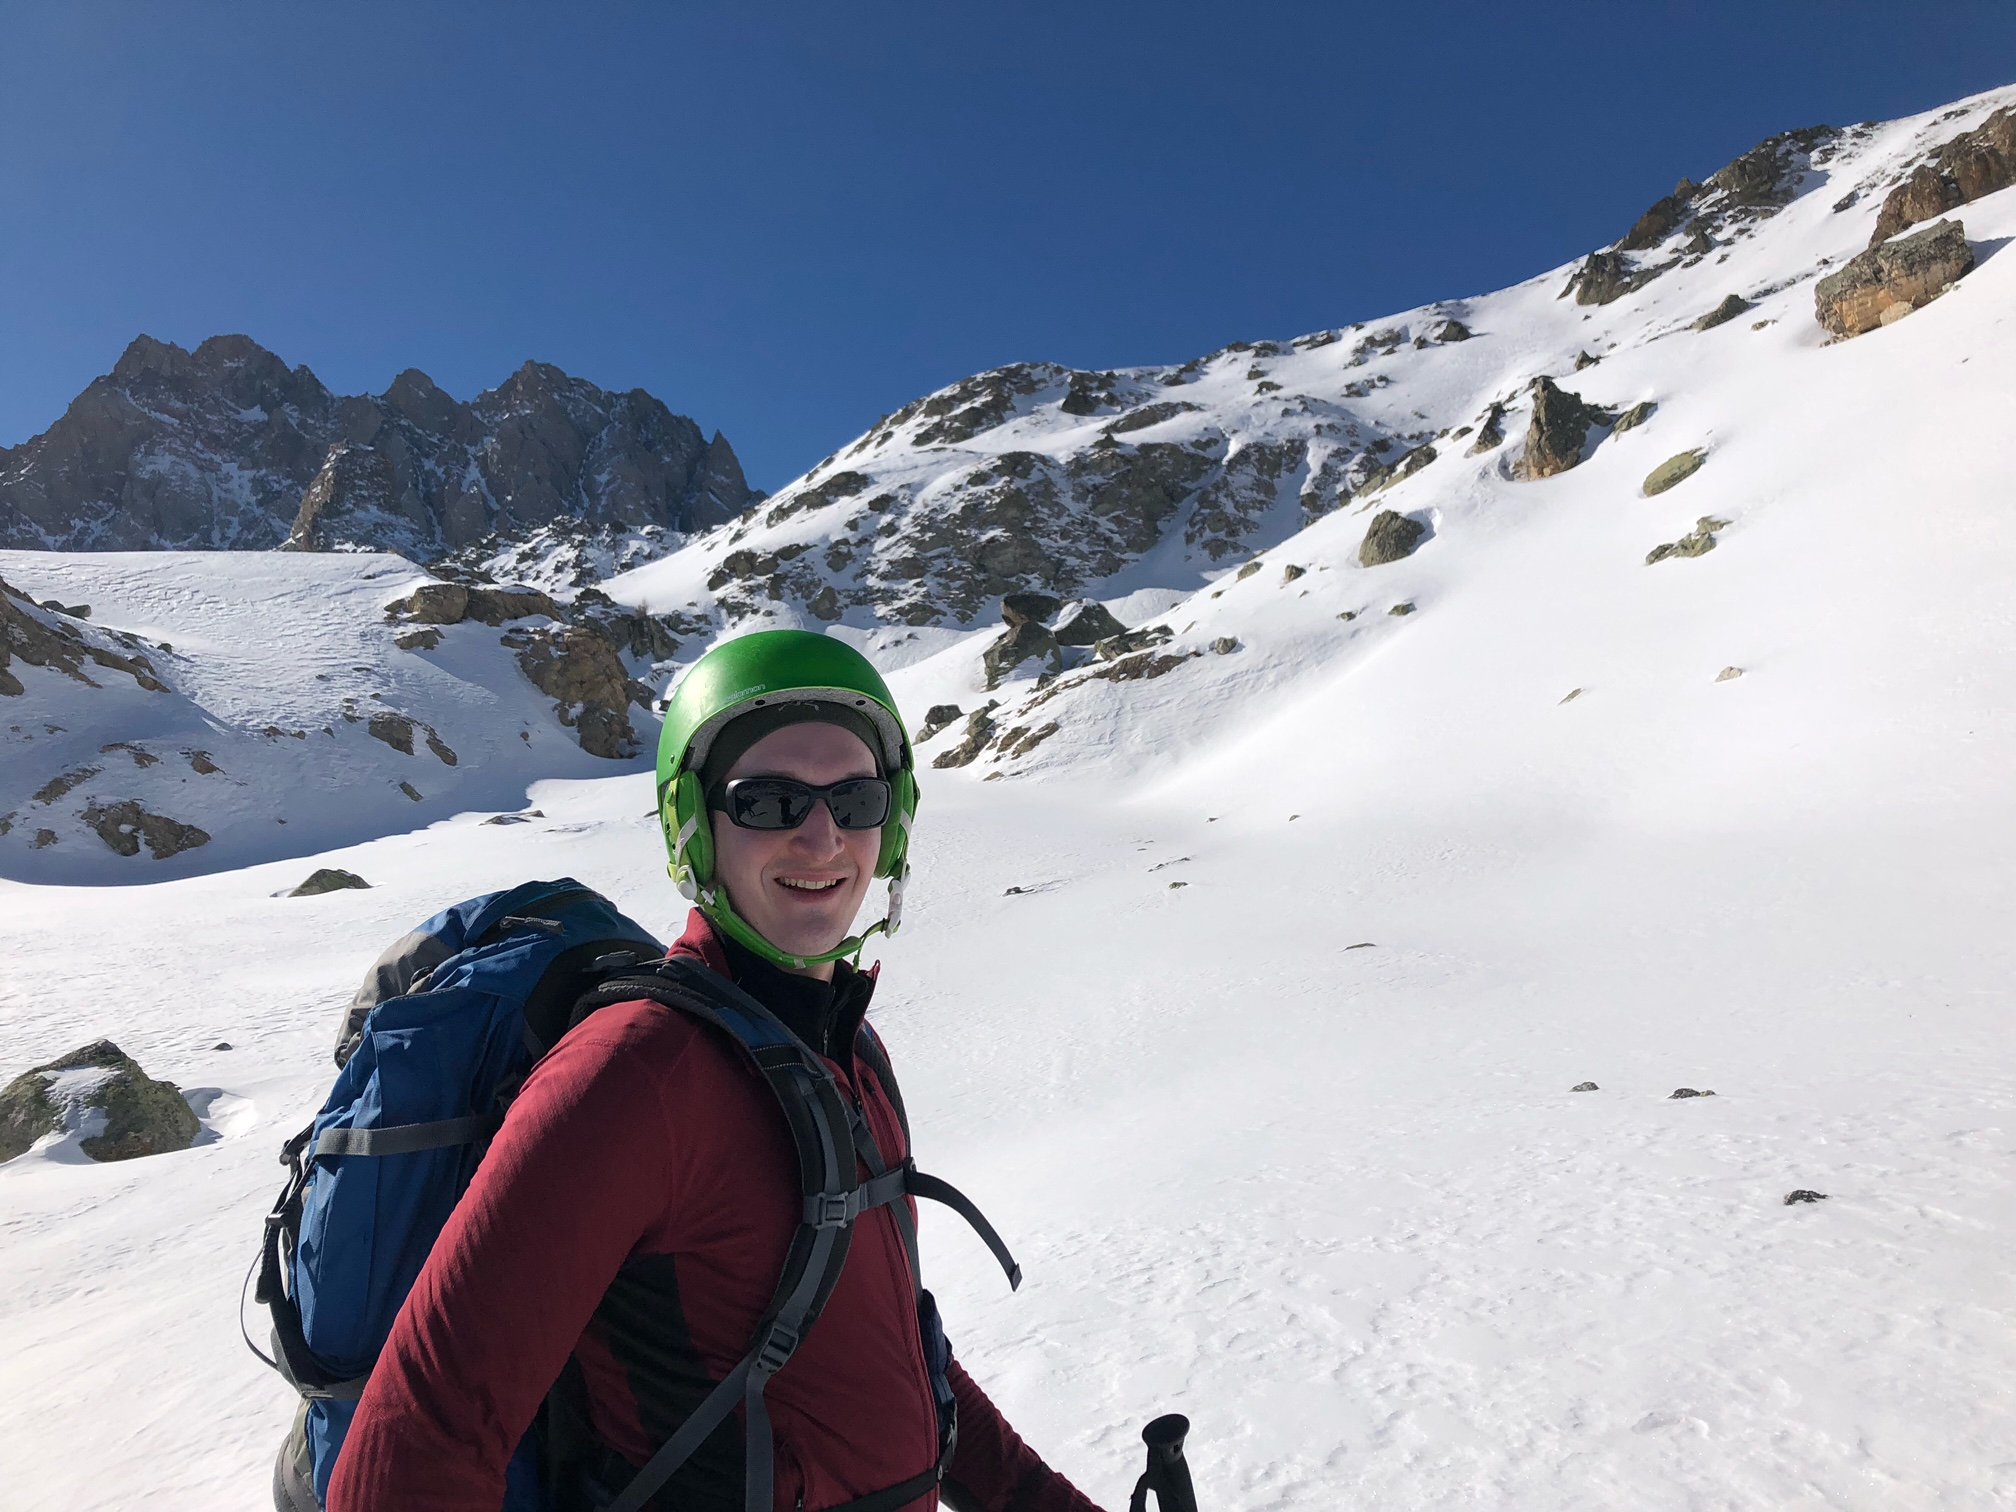
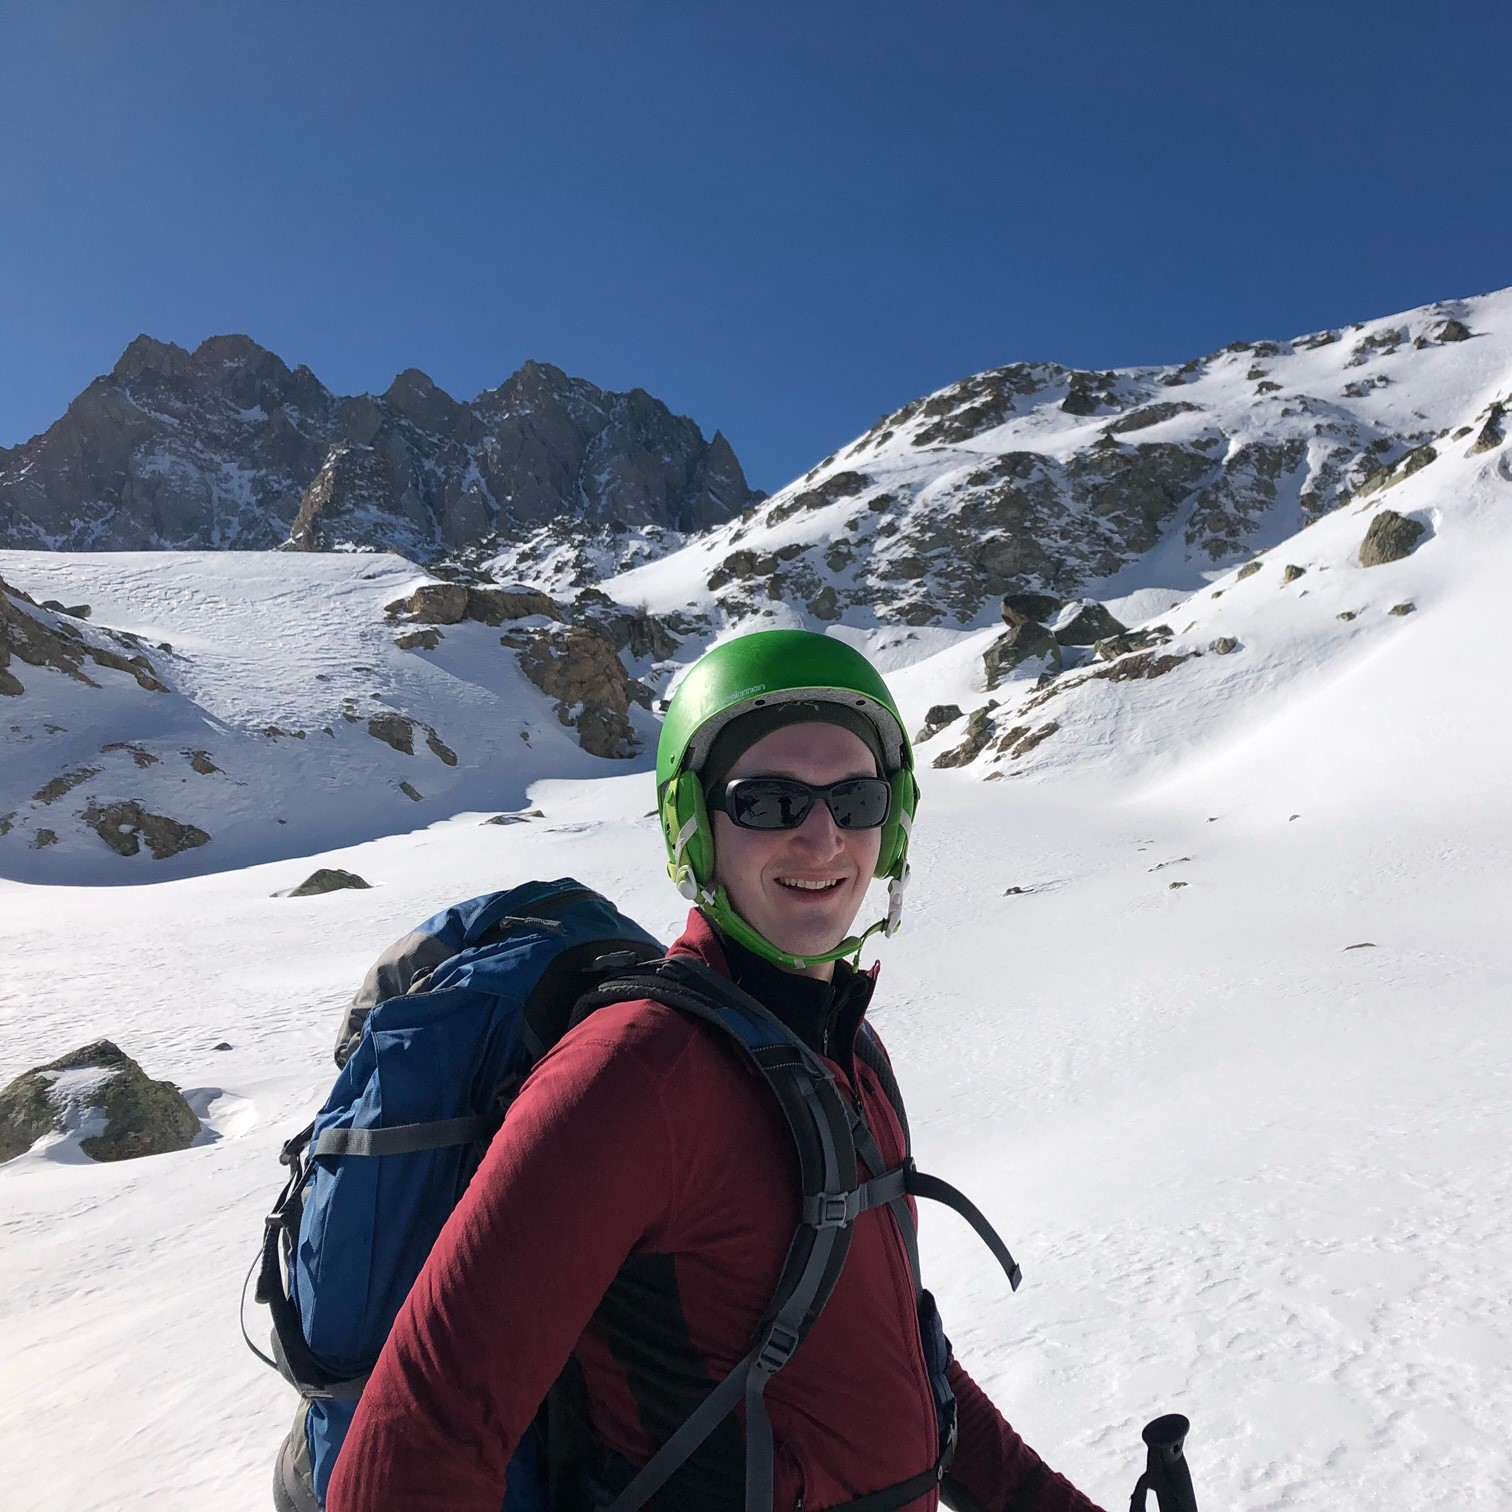
change pic and update bio

diff --git a/our-team/index.html b/our-team/index.html
@@ -95,13 +95,18 @@
 
         <div class="team-member">
             <div class="member-info">
-                <h2>Louis</h2>
-                <p>MPA2 with an interest in social policy, more specifically education and workforce development</p>
-                <a class="linkedin-link" href="https://www.linkedin.com/in/louisprofile/" target="_blank">LinkedIn Profile</a>
+                <h2>Louis Costa</h2>
+                <p>MPA2 with an interest in:
+                    <ul>
+                        <li> Social policy </li>
+                        <li> Education and workforce development </li>
+                        <li> User-centric design </li>
+                    </ul>
+                <a class="linkedin-link" href="https://www.linkedin.com/in/louis-c-8a43a566/" target="_blank">LinkedIn Profile</a>
             </div>
             <div class="member-photo">
                 <!-- Placeholder for Louis' photo -->
-                <img src="path_to_louis_photo.jpg" alt="Louis">
+                <img src="Louis.jpeg" alt="Louis">
             </div>
         </div>
     </div>
